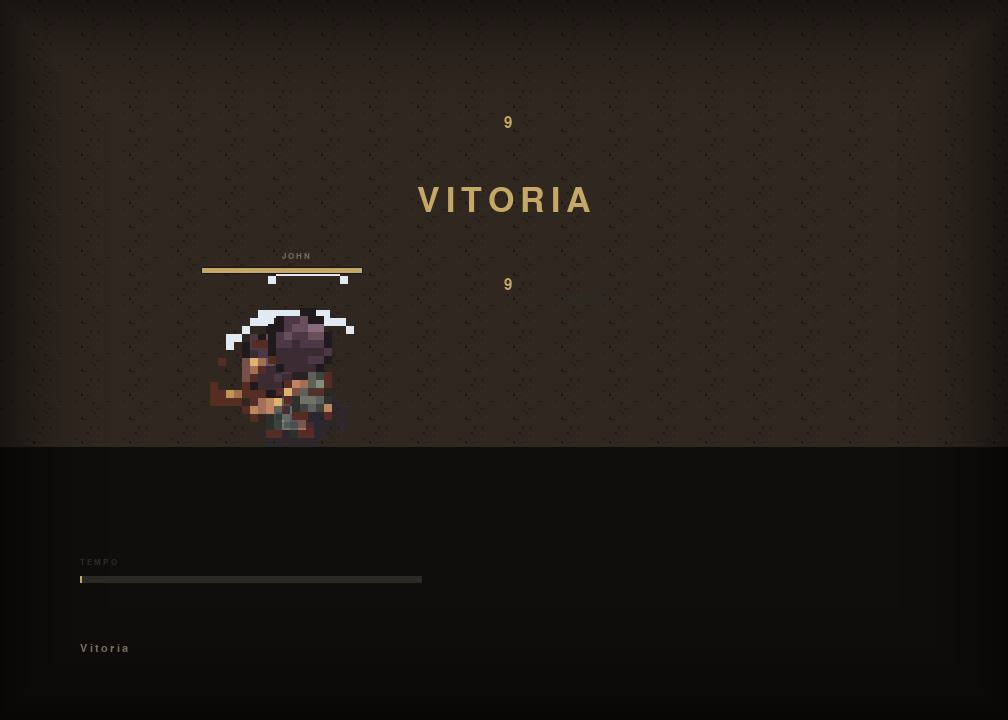
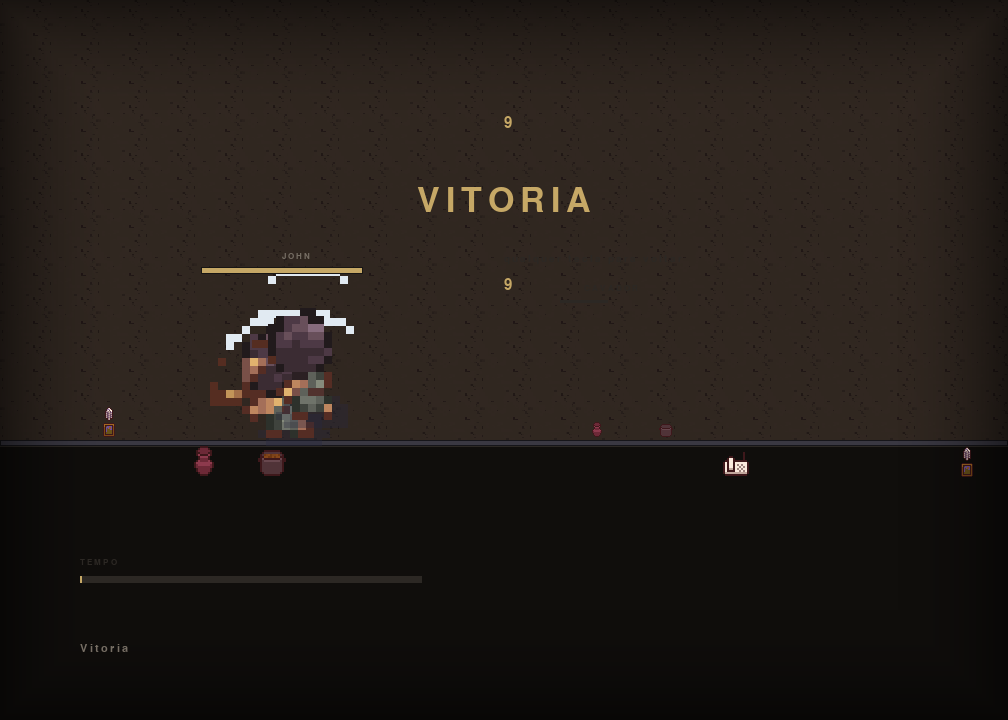
Usa o cenario real da sala como fundo da luta

Changed region(s): [[0.3075, 0.5806, 0.9841, 0.6722], [0.0308, 0.5806, 0.2768, 0.6722]]

diff --git a/src/combat_scene.py b/src/combat_scene.py
@@ -80,7 +80,13 @@ class CombatScene(Scene):
         # por tamanho de janela, senao a luta redesenha o cenario
         # inteiro sessenta vezes por segundo
         self._tile_cacheado: tuple = ()
+        # o cenario onde a luta acontece, mandado pela masmorra: o
+        # tileset da sala e os enfeites que ela tem. Sem isto a luta
+        # acontece num limbo preto e o jogador nao reconhece o lugar.
+        self.cenario_luta = manager.ui_state.get("cenario_luta") or {}
         self._vinhete_cache: dict = {}
+        # parede e chao da sala, por tileset e tamanho de tile
+        self._parede_cache: dict = {}
 
     # ciclo de vida -------------------------------------------------
     def on_enter(self) -> None:
@@ -298,6 +304,126 @@ class CombatScene(Scene):
                 )
 
     # desenho -------------------------------------------------------
+    def _cenarios_da_sala(self) -> dict | None:
+        """A parede e o chao da sala onde a luta acontece.
+
+        A parede usa as variantes de PAREDE do tileset e o chao as de
+        CHAO, e as duas sao as mesmas da masmorra — a luta acontece no
+        lugar certo e o jogador reconhece a pedra. Sem tileset no
+        estado (luta chamada de fora, ou teste) cai no fundo generico.
+        """
+        nome = self.cenario_luta.get("tileset")
+        if not nome:
+            return None
+        lado = max(16, int(self.size[1] * 0.09))
+        chave = ("sala", nome, lado)
+        if chave in self._parede_cache:
+            return self._parede_cache[chave]
+        partes = None
+        try:
+            from . import cenarios, dungeon_scene
+
+            cenario = cenarios.POR_NOME.get(nome)
+            tabela = (dungeon_scene._tabela_wang(cenario)
+                      if cenario is not None else None)
+            if tabela:
+                chao = tabela.get((False, False, False, False))
+                parede = tabela.get((True, True, True, True))
+                if parede is None:
+                    parede = next(
+                        (v for k, v in tabela.items() if all(k)), None
+                    )
+                if chao is not None and parede is not None:
+                    partes = {
+                        "chao": pygame.transform.scale(chao, (lado, lado)),
+                        "parede": pygame.transform.scale(parede, (lado, lado)),
+                    }
+        except Exception:  # noqa: BLE001 - o tileset e opcional
+            partes = None
+        self._parede_cache[chave] = partes
+        return partes
+
+    def _desenhar_parede_da_sala(self, surface: pygame.Surface,
+                                horizonte: int) -> None:
+        """A parede do fundo da sala, com a fiada de pedra de cima.
+
+        E o que separa a tela de combate de um retangulo: o jogador ve
+        a parede de tras, e ela e a MESMA parede da sala em que ele esta
+        lutando.
+        """
+        partes = self._cenarios_da_sala()
+        if partes is None:
+            return
+        parede = partes["parede"]
+        w = surface.get_width()
+        x = -(int(self.anim_tempo * 6) % parede.get_width())
+        y = 0
+        while x < w and y < horizonte:
+            surface.blit(parede, (x, y))
+            x += parede.get_width()
+            y += parede.get_height()
+        # fecha o que sobrou acima da ultima fiada
+        if y < horizonte:
+            pygame.draw.rect(
+                surface, theme.BACKGROUND,
+                pygame.Rect(0, y, w, horizonte - y),
+            )
+
+    def _desenhar_enfeites_da_sala(self, surface: pygame.Surface,
+                                   horizonte: int) -> None:
+        """Os mesmos barris e ossos que a sala tinha antes da luta.
+
+        Sao distribuidos em DUAS fiadas para dar profundidade: a de
+        tras fica um pouco acima da linha do chao e sai menor, a da
+        frente fica na linha e sai do tamanho normal. Numa fiada so —
+        que foi a primeira versao — os enfeites viravam um palito
+        atravessado na tela, e nao um canto de sala.
+
+        A faixa do meio fica livre: e onde os lutadores ficam, e um
+        barril na frente da cara do heroi atrapalha a leitura do golpe.
+        """
+        enfeites = self.cenario_luta.get("enfeites") or []
+        if not enfeites:
+            return
+        from . import cenario as cenario_mod
+
+        w, h = self.size
+        xs = [p[0] for p in enfeites]
+        ys = [p[1] for p in enfeites]
+        x0, x1 = min(xs), max(xs)
+        y0, y1 = min(ys), max(ys)
+        if x1 == x0 or y1 == y0:
+            return
+
+        # So uma PARTE dos enfeites entra, e so nos cantos. Mapear os
+        # vinte e seis numa faixa dava um palito atravessado na tela;
+        # e o meio e onde os lutadores ficam. Nos cantos, em duas
+        # profundidades, le como um canto de sala.
+        canto_esq, canto_dir = [], []
+        for i, p in enumerate(sorted(enfeites, key=lambda q: q[1])):
+            pos = (p[0] - x0) / (x1 - x0)
+            if pos < 0.42:
+                canto_esq.append(p)
+            elif pos > 0.58:
+                canto_dir.append(p)
+        escolhidos = canto_esq[-4:] + canto_dir[-4:]
+
+        for i, (cx, cy, nome) in enumerate(escolhidos):
+            pos = (cx - x0) / (x1 - x0)
+            # dentro de cada canto, duas fiadas: a de tras sobe e
+            # encolhe, a da frente fica na linha do chao
+            profundidade = i % 2
+            px = int(w * (0.04 + pos * 0.92))
+            if profundidade:
+                py = horizonte - int(h * 0.012)
+                lado = max(12, int(h * 0.040))
+            else:
+                py = horizonte + int(h * 0.045)
+                lado = max(15, int(h * 0.062))
+            arte = cenario_mod.carregar_enfeite(nome, lado)
+            if arte is not None:
+                surface.blit(arte, arte.get_rect(midbottom=(px, py)))
+
     def _desenhar_cenario(self, surface: pygame.Surface) -> None:
         """O chao da catacumba, escurecido, com as bordas fechadas.
 
@@ -331,11 +457,19 @@ class CombatScene(Scene):
             escurecer.fill((8, 8, 12, 150))
             surface.blit(escurecer, (0, 0))
 
+        self._desenhar_parede_da_sala(surface, horizonte)
+        # o rodape da parede: uma fiada de pedra mais clara na linha do
+        # chao. Sem ela a parede e o chao se misturam num so plano, e o
+        # fundo da tela volta a ser um retangulo de ladrilho.
+        rodape = pygame.Rect(0, horizonte - 6, w, 6)
+        pygame.draw.rect(surface, (58, 56, 66), rodape)
+        pygame.draw.rect(surface, (22, 21, 26), rodape, 1)
         pygame.draw.rect(
             surface, theme.BACKGROUND_SOFT,
             pygame.Rect(0, horizonte, w, h),
         )
         theme.hairline(surface, 0, horizonte, w)
+        self._desenhar_enfeites_da_sala(surface, horizonte)
 
         # vinhete: escurece as bordas e puxa o olho para o centro da
         # tela, que e onde a briga acontece

diff --git a/src/cenario.py b/src/cenario.py
@@ -105,6 +105,38 @@ def distribuir(mapa, quantos: int, semente: int) -> list[tuple[int, int, str]]:
     return escolhidos
 
 
+_enfeite_cache: dict[tuple[str, int], pygame.Surface | None] = {}
+
+
+def carregar_enfeite(nome: str, lado: int) -> pygame.Surface | None:
+    """Um enfeite ja cortado, no tamanho pedido.
+
+    Compartilhado com a cena de combate, que desenha os mesmos barris e
+    ossos da sala numa faixa atras dos lutadores. O cache e por tamanho:
+    a luta usa meia altura de tile e o mapa inteiro.
+    """
+    chave = (nome, lado)
+    if chave in _enfeite_cache:
+        return _enfeite_cache[chave]
+    caminho = DESTINO / f"{nome}.png"
+    if not caminho.is_file():
+        _enfeite_cache[chave] = None
+        return None
+    try:
+        original = pygame.image.load(str(caminho)).convert_alpha()
+    except (pygame.error, OSError):
+        _enfeite_cache[chave] = None
+        return None
+    escala = max(1, lado // max(1, original.get_height()))
+    arte = pygame.transform.scale(
+        original,
+        (max(1, original.get_width() * escala),
+         max(1, original.get_height() * escala)),
+    )
+    _enfeite_cache[chave] = arte
+    return arte
+
+
 def desenhar(surface: pygame.Surface, mapa, pecas, tile: int,
              camera: pygame.Vector2, janela: tuple[int, int]) -> None:
     """Desenha os enfeites. Sem colisao: sao cacos no chao.

diff --git a/src/dungeon_scene.py b/src/dungeon_scene.py
@@ -834,6 +834,16 @@ class DungeonScene(Scene):
                 self.posicao.x, self.posicao.y
             )
             self.manager.ui_state["ensinar_item"] = self.ensinar_item
+            # o cenario da luta: a sala onde o jogador esta, com o
+            # tileset e os enfeites que ela ja tem. Sem isto a luta
+            # acontece num limbo preto e o jogador perde de vista o
+            # lugar de onde veio: a parede de tras, os barris que ele
+            # tinha acabado de ver, tudo some.
+            self.manager.ui_state["cenario_luta"] = {
+                "tileset": self.cenario.tileset,
+                "sala": self.sala_atual,
+                "enfeites": list(self.enfeites),
+            }
             self.manager.iniciar_combate(1)
         return
 
